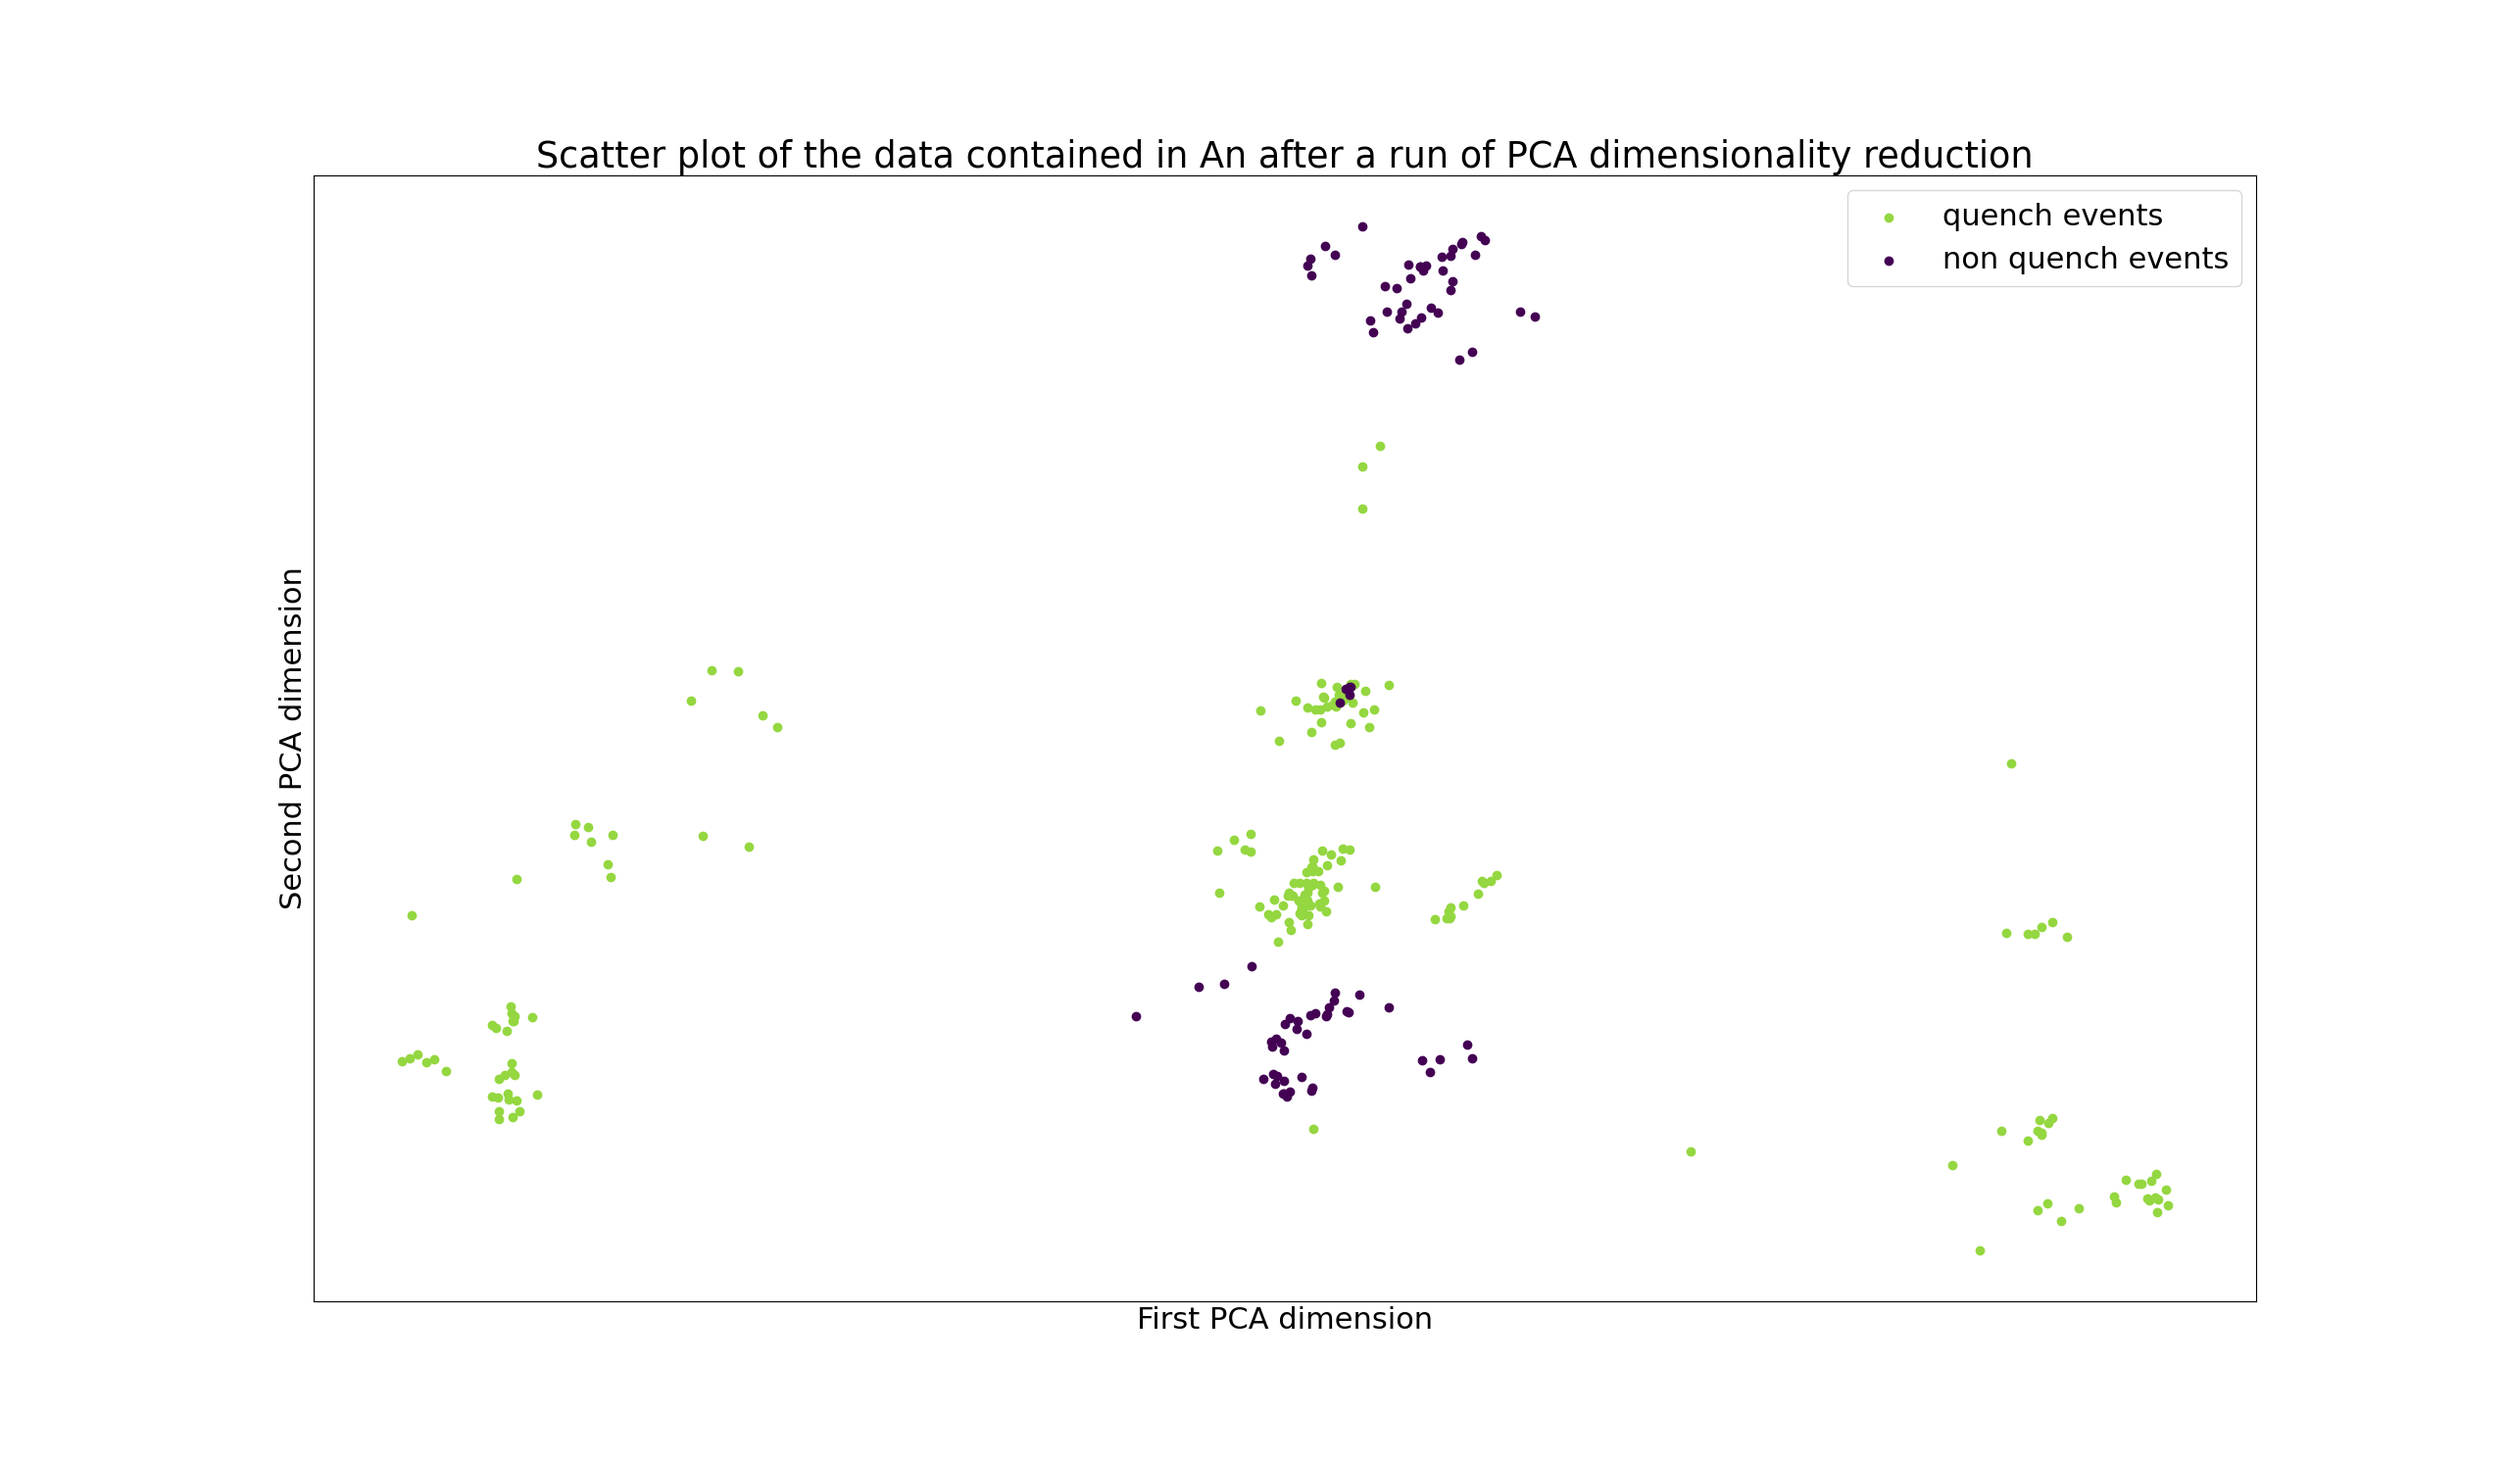
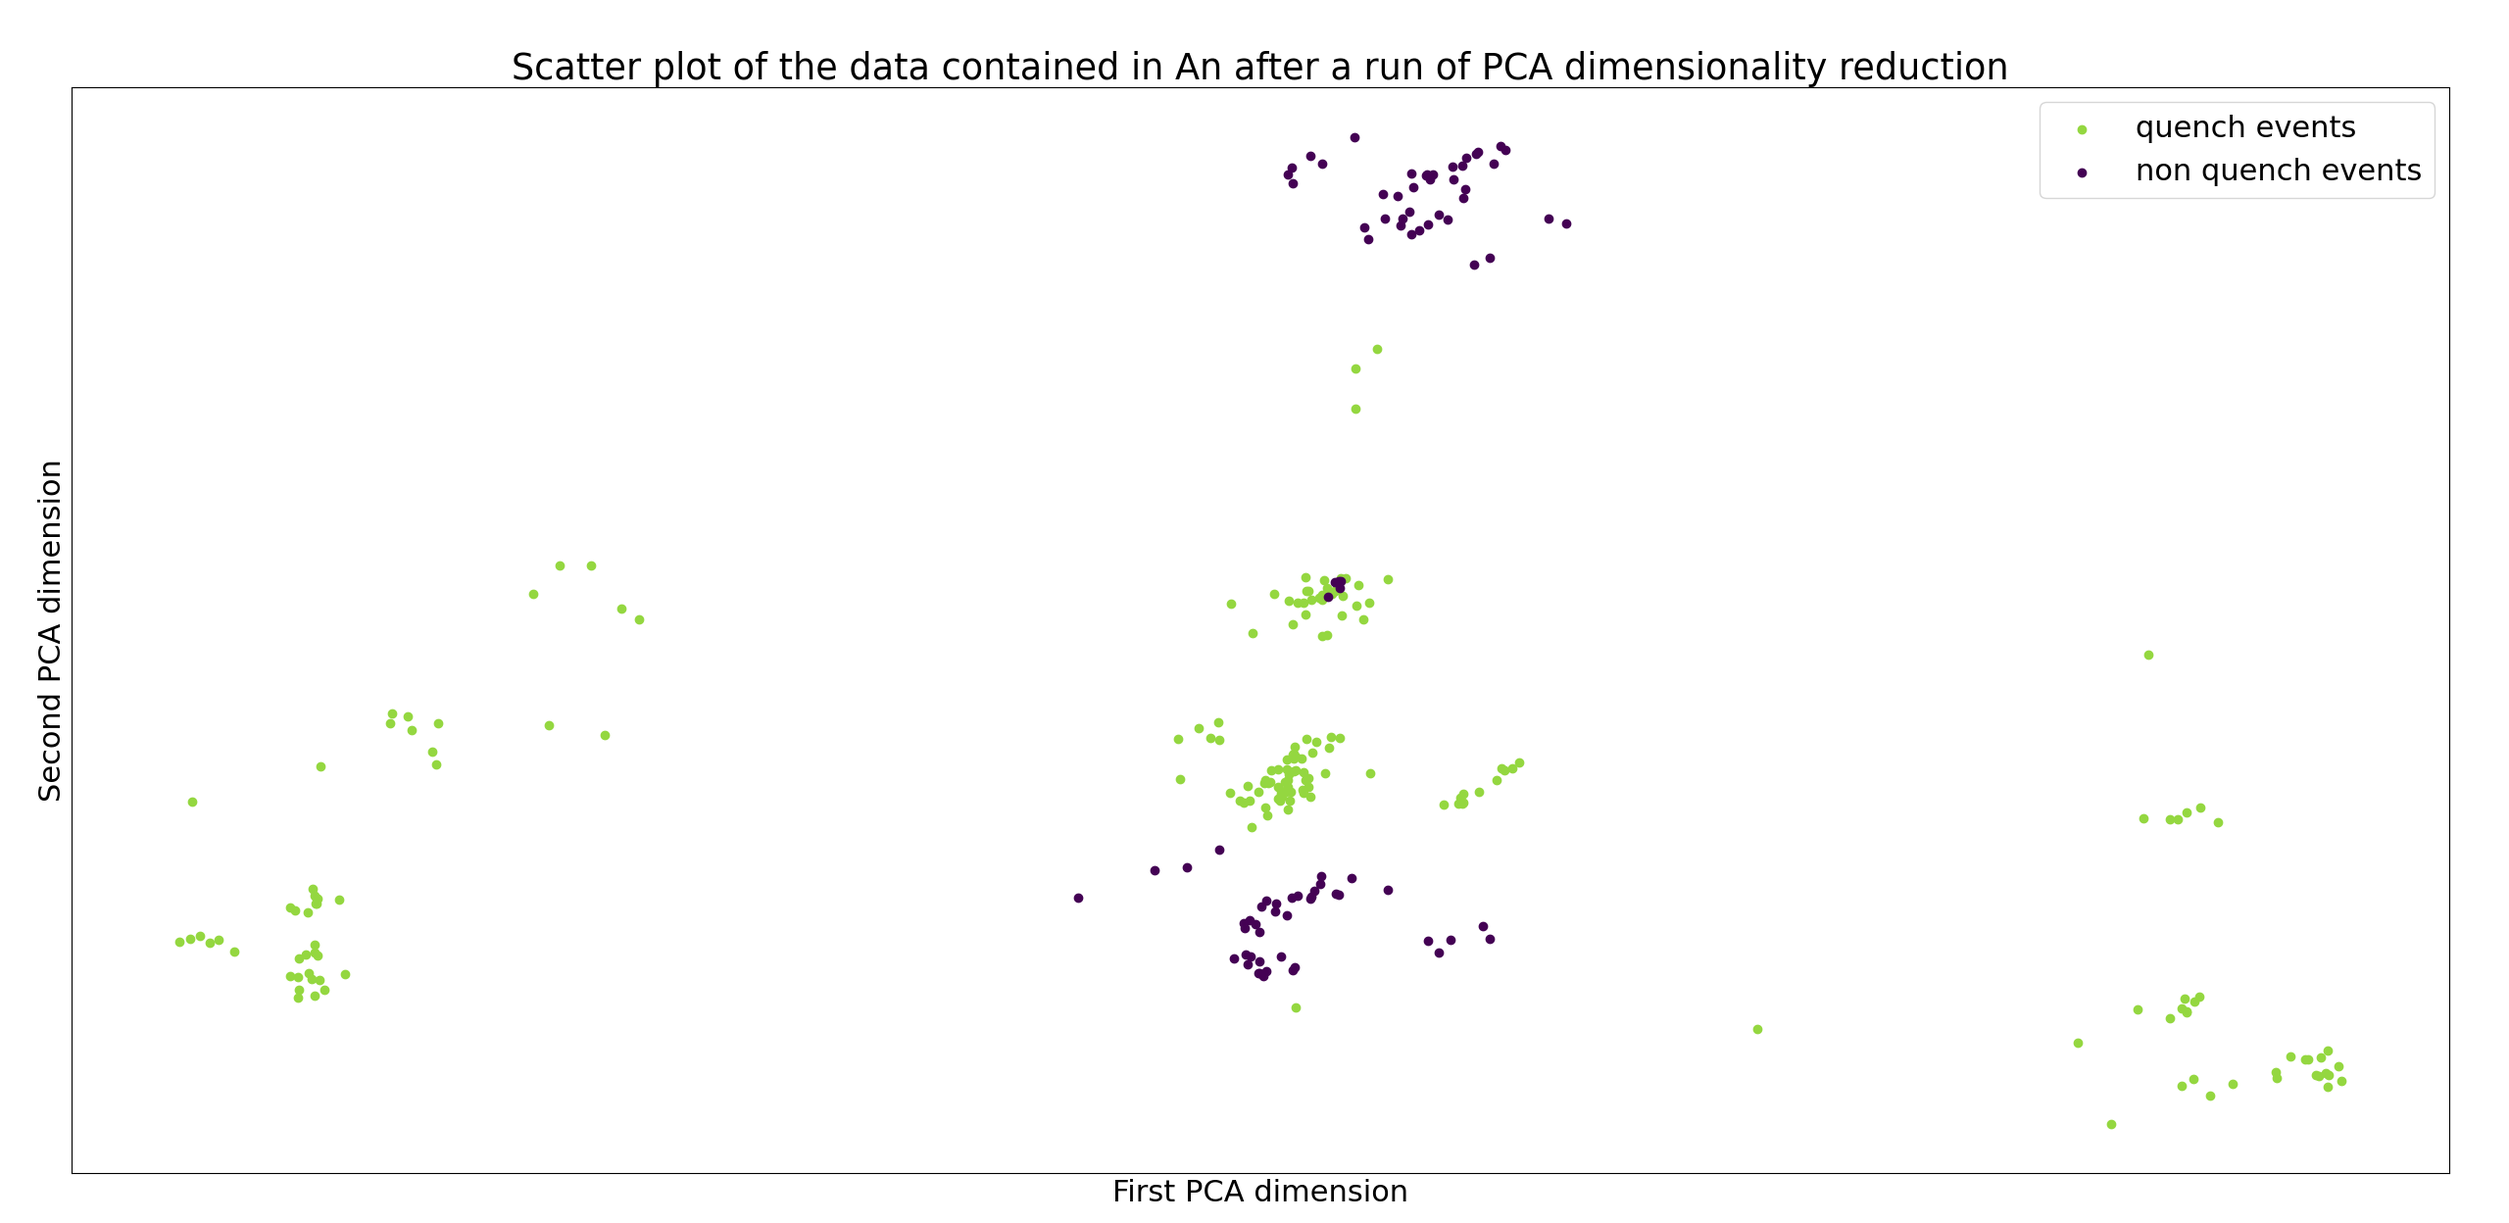
Finished the section about preprocessing

diff --git a/src/qrp.tex b/src/qrp.tex
@@ -20,21 +20,33 @@ extreme, therefore we kept it in mind but without worrying about it too much.
 
 \section{Data preprocessing}
 Before working on the actual models we analyzed the data to determine how correlated were the
-harmonics for each table, secondly we analyzed the amount of information that each harmonic carried
+harmonics for each table, and we also analyzed the correlation that each harmonic has with the
+labels, we also analyzed the amount of information that each harmonic carried
 by checking their box plot, the larger the amount of variables covered by the harmonic, the more
 information the harmonic carried. Lastly we computed the correlation between each harmonic and the
 label (quench or non quench) associated to the table.
 
+The vector containing the information about the correlation with the labels has been plotted after a
+normalization step, which was done with the MinMaxScaler class of scikit-learn. While this procedure
+doesn't change the intensity of the correlation between the harmonic and the label it makes the
+graphs more readable and easy to interpret, the normalized samples are scaled using
+\Cref{eq:normalization} \cite{Nishok2024}.
+\begin{equation}
+	\label{eq:normalization}
+	X_\text{scaled} = \frac{X - X_\text{min}}{X_\text{max} - X_\text{min}}
+\end{equation}
+Where $X$ is a sample in the dataset that is being scaled.
+
 The results are reported in the following sections, one for each table.
 
 \subsubsection{An table}
-\Cref{img:an-corr} shows the correlation of the various harmonics with each other. Independently
+\Cref{fig:an-corr} shows the correlation of the various harmonics with each other. Independently
 of the sign of the cross-correlation measurement, the matrix has $5$ different diagonals (other than
 the main diagonal) that contain repeated information, e.g., harmonic number $1$ provides the same
 information as harmonic number $3, 5, 7, \ldots$.
 \begin{figure}
 	\centering
-	\includegraphics[scale=.25]{img/An_corr_matrix.png}
+	\includegraphics[scale=.2]{img/An_corr_matrix.png}
 	\caption{The cross-correlation of the An harmonics} \label{fig:an-corr}
 \end{figure}
 Other than us noticing that the situation is definitely complex and doing feature extraction on this
@@ -57,7 +69,7 @@ should be performing at a high level.
 
 \begin{figure}
 	\centering
-	\includegraphics[scale=.25]{img/An_label_corr.png}
+	\includegraphics[scale=.2]{img/An_label_corr.png}
 	\caption{Label correlation for the An table} \label{fig:an-lcorr}
 \end{figure}
 
@@ -82,20 +94,142 @@ in the following one of the best datasets that we built on this table was based 
 Lastly, we can check the distribution of the samples in bidimensional space, since the data have
 $15$ dimensions to be able to plot them we use a dimensionality reduction technique, namely
 $\textsc{pca}$ (Principal Component Analysis).
-\begin{figure}
+\begin{figure}[h!]
 	\centering
-	\includegraphics[scale=.23]{img/An_distribution.png}
-	\caption{Label correlation for the An table} \label{fig:an-dist}
+	\includegraphics[scale=.2]{img/An_distribution.png}
+	\caption{Data distribution for the An table after applying $\textsc{pca}$ dimensionality
+		reduction} \label{fig:an-dist}
 \end{figure}
 
-As we can see the samples, after dimensionality reduction, are distributed very nicely in a series
-of zones, each zone has a very high degree of purity. The very good distribution of the samples must
-be the reason why the models built on this table are performing so well.
+It can be seen in \Cref{fig:an-dist} that the samples, after dimensionality reduction, are distributed very nicely in a series
+of zones, each zone has a very high degree of purity. The very good distribution of the samples is
+very likely the reason why the models built on this table are performing so well.
 
 \subsubsection{Bn table}
+We can use a similar procedure on the Bn table, which in most of the tests proved to be the worst
+table to use to build models with, this is likely due, if we look at \Cref{fig:bn-dist}, to the very
+poor distribution of the data, as we can see it's really hard to find a way to separate the central
+portion of the data, and this difficulty will be reflected in the performance of most models that
+will be introduced in this chapter.
+\begin{figure}[h!]
+	\centering
+	\includegraphics[scale=.2]{img/Bn_distribution.png}
+	\caption{Data distribution for the Bn table after applying $\textsc{pca}$ dimensionality
+		reduction} \label{fig:bn-dist}
+\end{figure}
+
+As we did for An we check the cross-correlation of the Bn table, and the results are actually very
+similar.
+\begin{figure}[h!]
+	\centering
+	\includegraphics[scale=.2]{img/Bn_corr_matrix.png}
+	\caption{The cross-correlation of the Bn harmonics} \label{fig:bn-corr}
+\end{figure}
+Possibly the biggest difference between \Cref{fig:an-corr} and \Cref{fig:bn-corr}, apart from the
+obvious different in the value of the correlation coefficient, we can see that harmonic $2$ is not
+strongly correlated with any other harmonic anymore, and harmonic number $15$ has a discrete
+correlation with all odd harmonics.
+
+If we check the correlation of the harmonics with the labels (\Cref{fig:bn-lcorr}), we can see that, apparently, almost all
+harmonic have a good enough correlation with the solution, but despite this, the performance of all
+models built on Bn suffered.
+\begin{figure}
+	\centering
+	\includegraphics[scale=.2]{img/Bn_label_corr.png}
+	\caption{Label correlation for the Bn table} \label{fig:bn-lcorr}
+\end{figure}
 
 \subsubsection{Cnmod table}
+The Cnmod table combines the information present in An and Bn, as we saw in the previous section,
+while the An table seems to be very good and has a very promising topology, the Bn table has a
+central 'cluster' of data with a high degree of impurity, where 'non-quench' and 'quench' samples
+mix and seem to be hardly separable.
+
+Cnmod was expected to be one of the best tables to solve the problem, but as we will see in future
+sections, it consistently falls short of the An table, and that is most likely due to the
+introduction of the information carried by Bn.
+\begin{figure}[h!]
+	\centering
+	\includegraphics[scale=.2]{img/Cnmod_corr_matrix.png}
+	\caption{The cross-correlation of the Cnmod harmonics} \label{fig:cnmod-corr}
+\end{figure}
+
+As we can see in \Cref{fig:cnmod-corr} the correlation matrix for Cnmod is very complicated,
+harmonic number $2$ can explain basically any other harmonic until number $9$ and harmonics between
+$10$ and $15$ have a medium correlation with each other. We can add to this the fact that harmonic
+number $4$ is strongly correlated with its multiples and the result is that picking an harmonic
+composition that is not, at least discretely, correlated in some way is extremely tricky.
+
+If we check the correlation between the harmonics and the labels \Cref{fig:cnmod-lcorr} we can see
+that the first harmonics explain really well the expected results.
+\begin{figure}[h!]
+	\centering
+	\includegraphics[scale=.2]{img/Cnmod_label_corr.png}
+	\caption{Label correlation for the Cnmod table} \label{fig:cnmod-lcorr}
+\end{figure}
+
+Looking at both \Cref{fig:cnmod-corr} and \Cref{fig:cnmod-lcorr}, we can conclude that two different
+routs could be pursued:
+\begin{itemize}
+	\item If harmonic number $2$ carries enough information it can be used in alongside one or
+	      more high-order harmonics,
+	\item Another route possible is to use harmonic number $3$ and some other low-order
+	      harmonics (potentially even the first one) alongside one low-order harmonic (e.g.,
+	      $14$).
+\end{itemize}
+As we will see in a future section the choice that yielded the better performance is to use a
+dataset based on harmonic $3$.
+
+Before considering the last table let us stop once again to check the distribution of the
+dimensionality reduction for Cnmod.
+\begin{figure}[h!]
+	\centering
+	\includegraphics[scale=.2]{img/Cnmod_distribution.png}
+	\caption{Data distribution for the Cnmod table after applying $\textsc{pca}$ dimensionality
+		reduction} \label{fig:cnmod-dist}
+\end{figure}
+As we can see in \Cref{fig:cnmod-dist} the samples are characterized by a good enough distribution,
+we could easily identify clusters with a high degree of purity, apart from the one in the leftmost
+region of the image, which contains many points tagged as quench events and many points tagged as
+non quenches.
 
 \subsubsection{Phi table}
+As we will see in further sections the Phi table did not perform exceptionally, but it consistently
+outperformed the one based on Bn. I believe that, as we saw with Bn, the root of the bad performance
+is standing in the fact that both tables have a high degree of homogeneity in the distribution of
+the samples, this can be seen quite clearly in \Cref{fig:phi-dist}.
+
+\begin{figure}[h!]
+	\centering
+	\includegraphics[scale=.2]{img/Phi_distribution.png}
+	\caption{Data distribution for the Phi table after applying $\textsc{pca}$ dimensionality
+		reduction} \label{fig:phi-dist}
+\end{figure}
+
+\medskip
+
+As far as the correlation matrix is concerned we can see in \Cref{fig:phi-corr} that, contrarily to
+the correlation matrix of other tables, the amount of harmonics that are strongly correlated with
+each other is kept to a minimum. No real structure can be seen in this table as was the case of An
+and Bn.
+\begin{figure}[h!]
+	\centering
+	\includegraphics[scale=.2]{img/Phi_corr_matrix.png}
+	\caption{The cross-correlation of the Phi harmonics} \label{fig:phi-corr}
+\end{figure}
+This structure leaves us with much more freedom as to which harmonics to pick to build datasets
+(compared with An, Bn and Cnmod), the only things that really stand to the eye are that: harmonic
+number $2$ is strongly correlated with its odd multiples, harmonic number $4$ is strongly correlated
+with its multiples.
+
+Lastly, we can analyze the correlation between the harmonics and the label.
+\begin{figure}
+	\centering
+	\includegraphics[scale=.2]{img/Phi_label_corr.png}
+	\caption{Label correlation for the Phi table} \label{fig:phi-lcorr}
+\end{figure}
+As we can see in \Cref{fig:phi-lcorr} most of the harmonics have a good correlation with the
+expected solution, especially harmonic number $2$ and its odd multiples, and harmonics number $1$
+and $12$.
 
 \section{Results}
